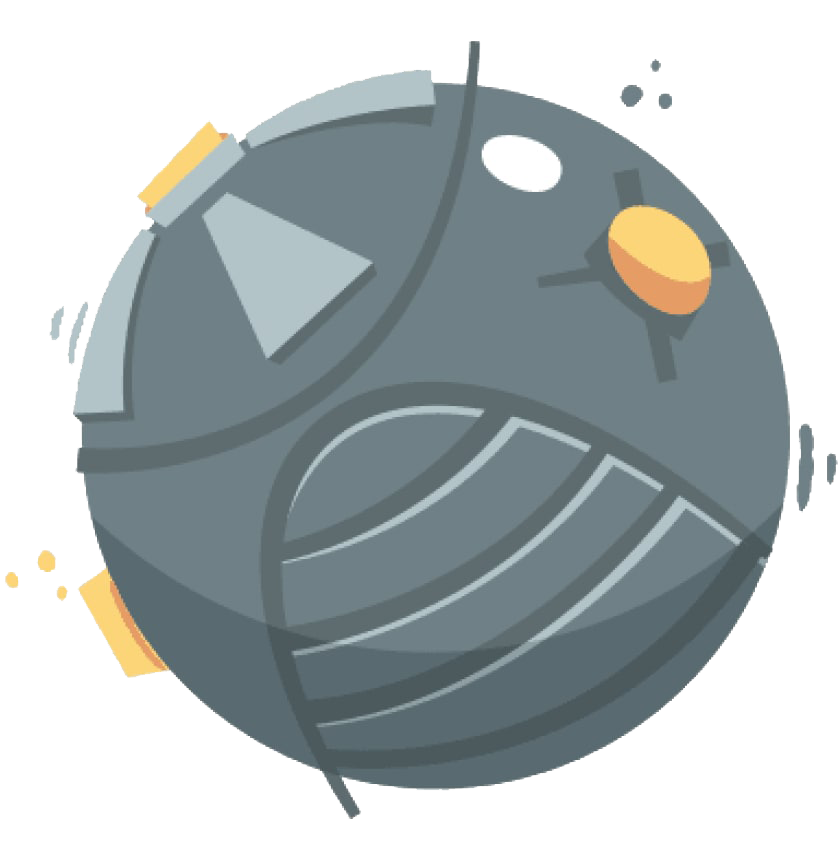
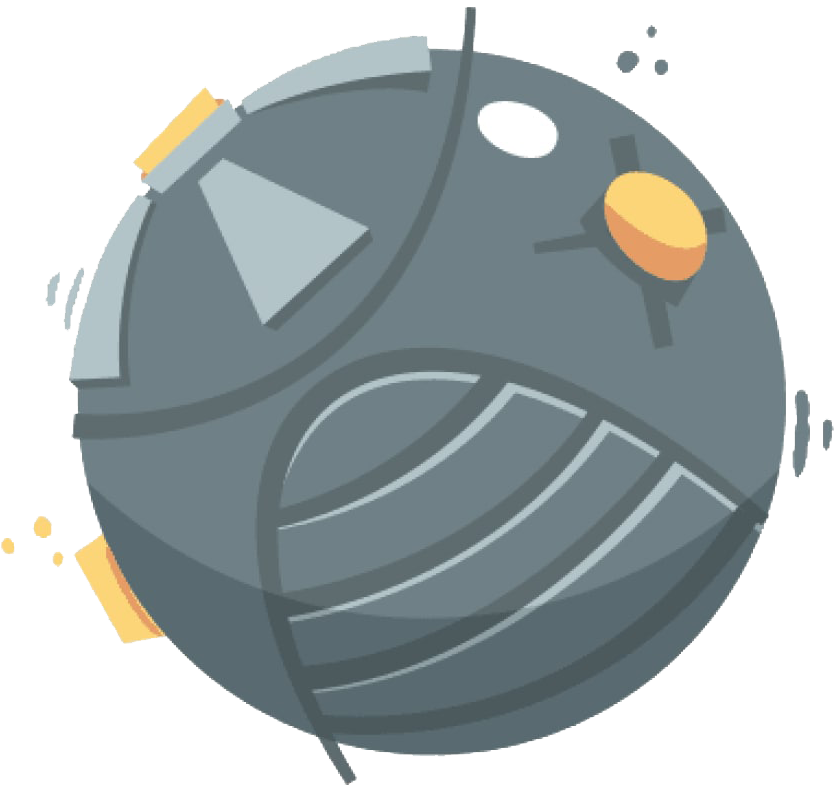
adding logic of rendering to ball

diff --git a/src/client/presentation/ClientBall.cpp b/src/client/presentation/ClientBall.cpp
@@ -3,22 +3,44 @@
 //
 
 #include "ClientBall.h"
+#include "../helpers/PositionConverter.h"
+
 #define BALL_PIC_WIDTH 840
 #define BALL_PIC_HEIGHT 859
 #define BALL_WIDTH (BALL_PIC_WIDTH/6)
 #define BALL_HEIGHT (BALL_PIC_HEIGHT/6)
 
 ClientBall::ClientBall(ClientBallState state, SDL2pp::Renderer &renderer)
-: texture(renderer, SDL2pp::Surface("./assets/ball.png").SetColorKey(true, 0))
+: texture(renderer, SDL2pp::Surface("./assets/ball1.png").SetColorKey(true, 0))
         , state(state){}
 
 void ClientBall::render(SDL2pp::Renderer &renderer) {
+    int posX = calculatePositionInXWithBorder(renderer);
+    int posY = calculatePositionInYWithBorder(renderer);
     renderer.Copy(texture,
                   SDL2pp::Rect(0, 0, BALL_PIC_WIDTH, BALL_PIC_HEIGHT),
             //SDL2pp::Rect(50, renderer.GetOutputHeight()-100, BALL_WIDTH, BALL_HEIGHT),
-                  SDL2pp::Rect(state.get_position_x(renderer), state.get_position_y(renderer), BALL_WIDTH, BALL_HEIGHT),
+                  SDL2pp::Rect(posX, posY, BALL_WIDTH, BALL_HEIGHT),
                   -state.get_angle(),
                   SDL2pp::NullOpt,    // rotation center - not needed
                   SDL_FLIP_NONE
     );
+}
+
+int ClientBall::calculatePositionInXWithBorder(SDL2pp::Renderer &renderer) {
+    int cmPos = state.get_position_x();
+    PositionConverter converter;
+    int pos = converter.convert_CM_to_PX_In_X_axis(cmPos, renderer);
+    if (pos + BALL_WIDTH/2 > renderer.GetOutputWidth())
+        return renderer.GetOutputWidth()-BALL_WIDTH;
+    return pos;
+}
+
+int ClientBall::calculatePositionInYWithBorder(SDL2pp::Renderer &renderer) {
+    int cmPos = state.get_position_y();
+    PositionConverter converter;
+    int posPx = converter.convert_CM_to_PX_In_Y_axis(cmPos, renderer);
+    if (posPx + BALL_HEIGHT > renderer.GetOutputHeight())
+        return renderer.GetOutputHeight() - BALL_HEIGHT;
+    return posPx;
 }

diff --git a/src/client/model/ClientBallState.cpp b/src/client/model/ClientBallState.cpp
@@ -3,19 +3,16 @@
 //
 
 #include "ClientBallState.h"
-#include "../helpers/PositionConverter.h"
 
 ClientBallState::ClientBallState(int position_x, int position_y, int angle)
 : position_x(position_x), position_y(position_y), angle(angle){}
 
-int ClientBallState::get_position_x(SDL2pp::Renderer &renderer) {
-    PositionConverter converter;
-    return converter.convert_CM_to_PX_In_X_axis(position_x, renderer);//wrappeeState.getPositionX();
+int ClientBallState::get_position_x() {
+    return position_x;//wrappeeState.getPositionX();
 }
 
-int ClientBallState::get_position_y(SDL2pp::Renderer &renderer) {
-    PositionConverter converter;
-    return converter.convert_CM_to_PX_In_Y_axis(position_y, renderer);//wrappeeState.getPositionY();
+int ClientBallState::get_position_y() {
+    return position_y;//wrappeeState.getPositionY();
 }
 
 int ClientBallState::get_angle() {

diff --git a/src/client/presentation/ClientCar.cpp b/src/client/presentation/ClientCar.cpp
@@ -38,13 +38,16 @@ int ClientCar::calculatePositionInXWithBorder(SDL2pp::Renderer &renderer) {
     int pos = converter.convert_CM_to_PX_In_X_axis(cmPos, renderer);
     if (pos + CAR_WIDTH/2 > renderer.GetOutputWidth())
         return renderer.GetOutputWidth()-CAR_WIDTH;
-    return 0;
+    return pos;
 }
 
 int ClientCar::calculatePositionInYWithBorder(SDL2pp::Renderer &renderer) {
     int cmPos = state.get_position_y();
     PositionConverter converter;
-    return converter.convert_CM_to_PX_In_Y_axis(cmPos, renderer);
+    int posPx = converter.convert_CM_to_PX_In_Y_axis(cmPos, renderer);
+    if (posPx + CAR_HEIGHT > renderer.GetOutputHeight())
+        return renderer.GetOutputHeight() - CAR_HEIGHT;
+    return posPx;
 }
 
 bool ClientCar::isRightPush() {

diff --git a/src/client/helpers/PositionConverter.cpp b/src/client/helpers/PositionConverter.cpp
@@ -16,5 +16,5 @@ int PositionConverter::convert_CM_to_PX_In_Y_axis(int pos, SDL2pp::Renderer &ren
     if (inverseSize == 0)
         return 0;
     double f = (double)20000/(double)inverseSize; // 20000 => matchSetup.field_height
-    return (int)((double)renderer.GetOutputHeight()/f)-100; // 100 is the ground
+    return (int)((double)renderer.GetOutputHeight()/f) - 100; // 100 is the ground
 }

diff --git a/src/client/model/ClientBallState.h b/src/client/model/ClientBallState.h
@@ -17,8 +17,8 @@ class ClientBallState {
 public:
 
     ClientBallState(int position_x, int position_y, int angle);
-    int get_position_x(SDL2pp::Renderer &renderer);
-    int get_position_y(SDL2pp::Renderer &renderer);
+    int get_position_x();
+    int get_position_y();
     int get_angle();
 };
 

diff --git a/src/client/presentation/ClientBall.h b/src/client/presentation/ClientBall.h
@@ -15,6 +15,10 @@ public:
     ClientBall(ClientBallState state, SDL2pp::Renderer &renderer);
 
     void render(SDL2pp::Renderer &renderer);
+
+    int calculatePositionInXWithBorder(SDL2pp::Renderer &renderer);
+
+    int calculatePositionInYWithBorder(SDL2pp::Renderer &renderer);
 };
 
 
